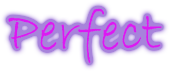
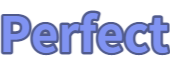
판정 이미지 업데이트 & 콤보 이미지 업로드

diff --git a/rhythmOrchestra/src/rhythmOrchestra/Game.java b/rhythmOrchestra/src/rhythmOrchestra/Game.java
@@ -26,7 +26,8 @@ public class Game extends Thread{
 	private Image judgeImage;
 	
 	private Image charecterImage;
-
+	private Image comboImage= new ImageIcon(Main.class.getResource("../images/combo_img0.png")).getImage();
+	
 	
 	private String titleName;
 	private String difficulty;
@@ -114,8 +115,10 @@ public class Game extends Thread{
 		g.drawString(Integer.toString(score), 565, 702);
 		g.setColor(Color.BLACK);
 		g.drawString(Integer.toString(combo), 600, 202);
+		//콤보 이미지 함수 구현 필요
+		//g.drawImage(comboImage,600,202,null);
 		g.drawImage(blueFlareImage,250,270,null);
-		g.drawImage(judgeImage,570,420,null);
+		g.drawImage(judgeImage,550,420,null);
 	}
 	
 
@@ -1338,7 +1341,7 @@ public class Game extends Thread{
 		}
 		if(judge.equals("Late")) {
 			judgeImage = new ImageIcon(Main.class.getResource("../images/judgeLate.png")).getImage();
-			combo = 0;
+			combo += 1;
 		}
 		else if(judge.equals("Good")) {
 			judgeImage = new ImageIcon(Main.class.getResource("../images/judgeGood.png")).getImage();
@@ -1360,7 +1363,7 @@ public class Game extends Thread{
 		}
 		else if(judge.equals("Early")) {
 			judgeImage = new ImageIcon(Main.class.getResource("../images/judgeEarly.png")).getImage();
-			combo = 0;
+			combo += 1;
 		}
 	}
 	public void comboEvent() {
